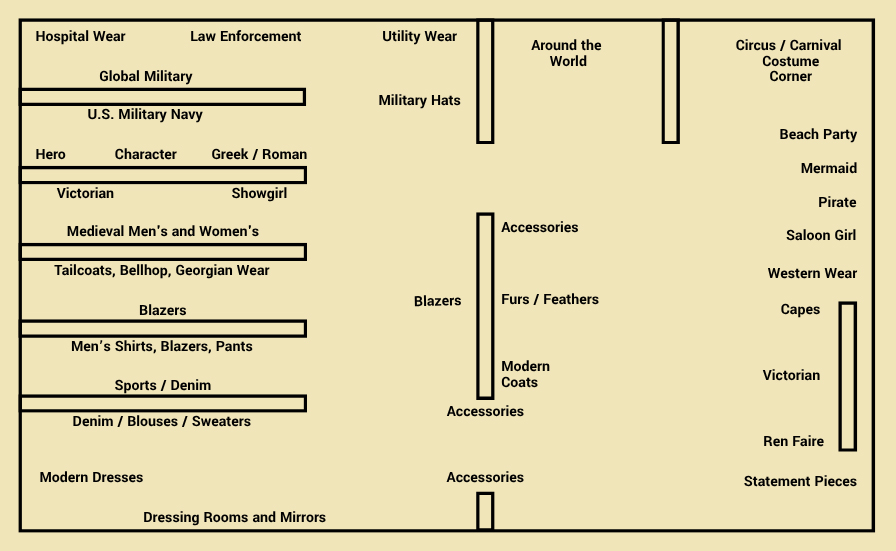
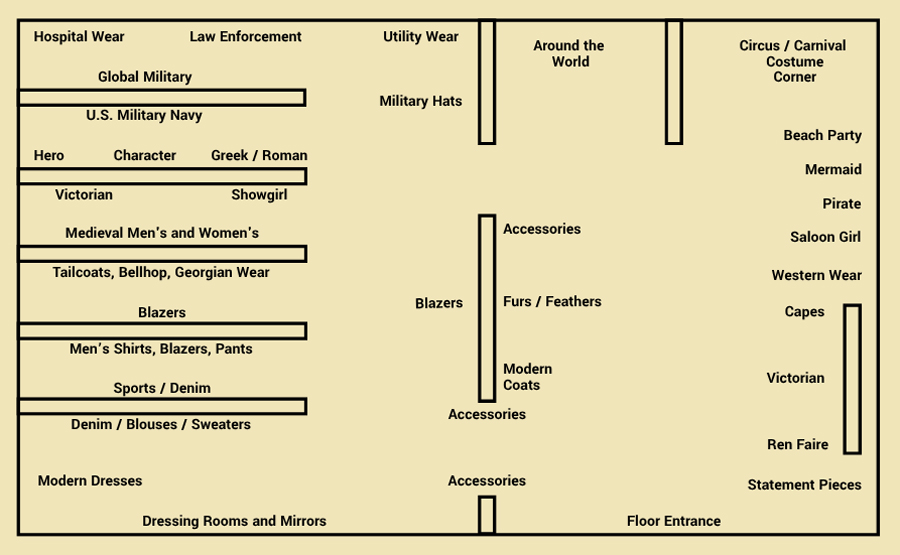
vault update

diff --git a/css/main.css b/css/main.css
@@ -294,8 +294,19 @@ section.footer{
 
 
 .vm-photo.floorplan img{
-  aspect-ratio: auto;
+  aspect-ratio: auto; max-width:770px; width:100%;
 }
+
+.art-item.vm-photo.floorplan {display: flex;
+    flex-direction: column;
+    align-content: center;
+    align-items: center;
+}
+
+
+
+
+
 
 
 /* Alternate background colors between sections */
